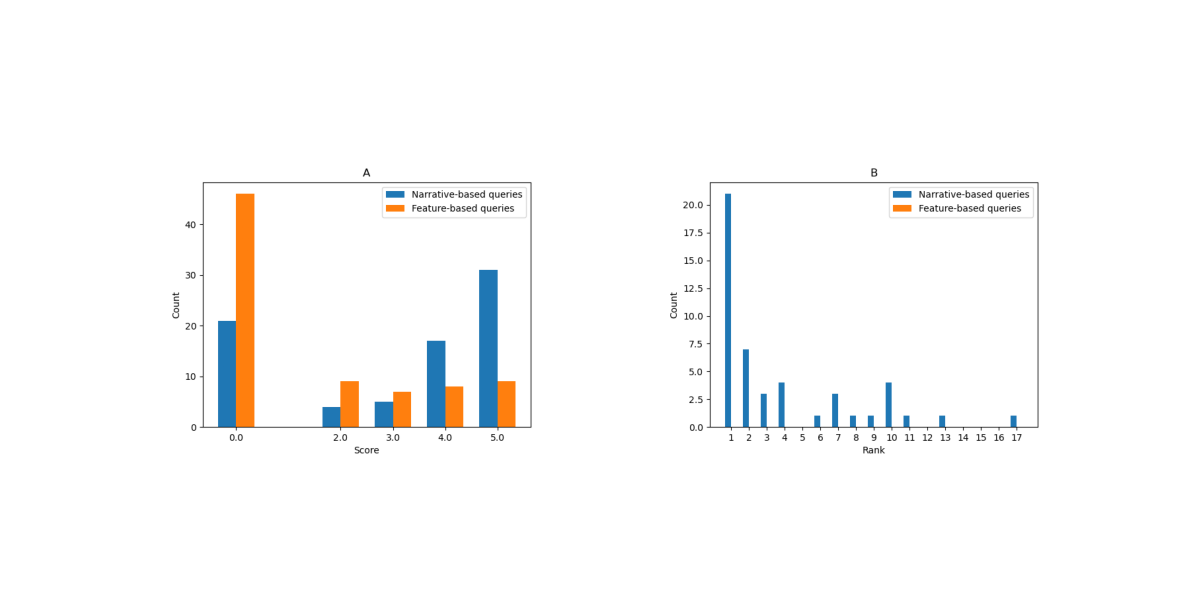
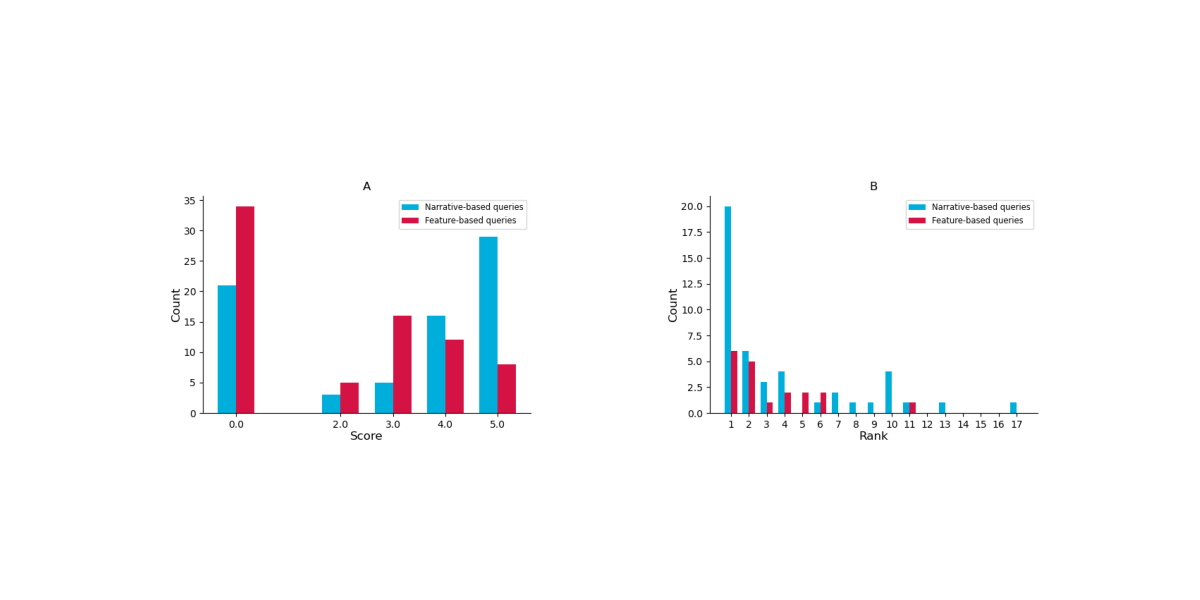
Fixes/updates to code

Changed region(s): [[0.1233, 0.3, 0.4625, 0.75], [0.555, 0.3, 0.8633, 0.78]]

diff --git a/figure2.py b/figure2.py
@@ -9,7 +9,7 @@ rank_column = 'Rank'
 data_dir = 'data'
 
 file1_name = 'Table 1. ChatGPT4 Diagnosis - text without discussion - txt_cases_results.tsv'
-file2_name = 'Table 2. ChatGPT4 Diagnosis - only age_sex_signs_symptoms - phenopacket_based_queries_results.tsv'
+file2_name = 'Table 3. ChatGPT4 Diagnosis - phenopacket time based - phenopacket_based_queries_results.tsv'
 
 file1_label = 'Narrative-based queries'
 file2_label = 'Feature-based queries'
@@ -86,7 +86,7 @@ def set_empty_indices_to_zero(series: pd.Series, this_min: int,
 
 # Find rank where score is 4 or 5, then count the number of times each rank appears
 rank_counts_file1 = to_numeric(df[df['file1_score'].isin([4, 5])]['file1_rank']).value_counts().sort_index()
-rank_counts_file2 = to_numeric(df[df['file2_score'].isin(["4", "5"])]['file2_rank']).value_counts().sort_index()
+rank_counts_file2 = to_numeric(df[df['file2_score'].isin([4, 5])]['file2_rank']).value_counts().sort_index()
 
 this_max = int(max(rank_counts_file1.index.tolist() + rank_counts_file2.index.tolist()))
 this_min = int(max(min(rank_counts_file1.index.tolist() + rank_counts_file2.index.tolist()), 1))
